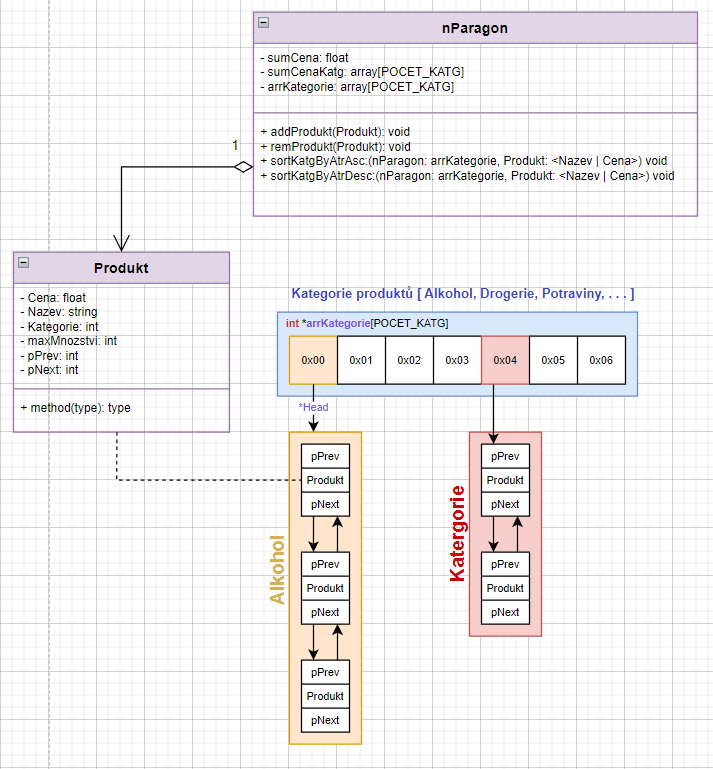
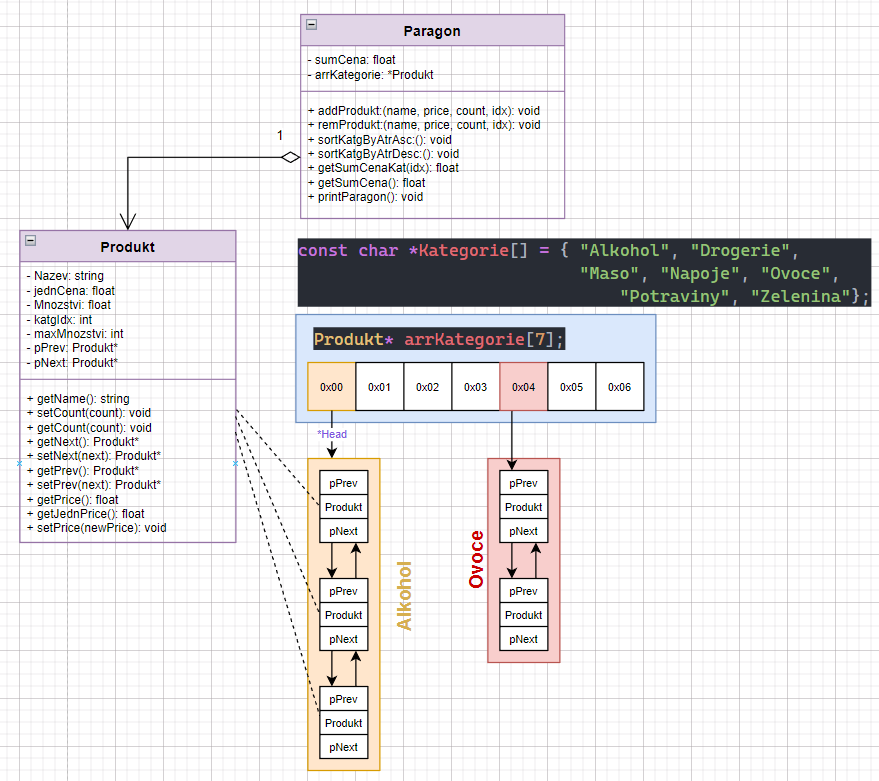
Popis reseni Paragonu

diff --git a/NakupniParagon/Reseni.md b/NakupniParagon/Reseni.md
@@ -9,7 +9,7 @@
 - Jiří Karmasin, karmasin@student.vspj.cz
 - Michal Makovec, makovec@student.vspj.cz
 
-### Formulace zadání
+## Formulace zadání
 Cílem zadání je sestavení konzolové aplikace pro práci s nákupním lístkem tzv. paragonem. Hlavní funkcionalita má být uspořádávání položek podle kategorie, Dále pak vkládání a odebírání položek a kontrola nákupu povoleného množství. 
 
 V našem případě se bude jednat o nákupní paragon supermarketu s potravinami. U každé položky nákupního lístku je předem známa její kategorie a počet kategorií je taktéž předem známy a neměnný.
@@ -25,26 +25,137 @@ Kategorie:
 > Celkem 7 kategorií produktů
 
 
-### Návrh zvoleného řešení 
+## Návrh zvoleného řešení 
 Hlavní uspořádání v nákupním paragonu bude tedy po kategoriích. Vzhledem k tomu, že kategorie budou neměnné, volíme za tímto účelem datovou strukturu pole ukazatelů o velikosti sedmi prvků. Každá položka pole bude ukazatelem na datovou strukturu obousměrný spojový seznam, který bude sloužit jako datová struktura pro uchování nákupních položek v jednotlivých kategoriích.
 
-#### Schéma řešení
+### Schéma řešení
 ![schemaReseni](../imgs/model.png)
 
-Třída `nParagon` obsahuje pole sedmi ukazatelů v předem stanoveném stanoveném pořadí definovaném obchodním domem takto:
-> __Index:Kategorie__=[0:Alkohol, 1:Drogerie, 2:Maso, 3:Nápoje, 4:Ovoce, 5:Potraviny, 6:Zelenina]
-> 
-Každý jednotlivý ukazatelem je `*head` ukazatelem spojového seznamu pro jednotlivé kategorie. Třída si eviduje celkovou sumu ceny všech přidaných položek na nákupní paragon a dále pak sumu ceny v jednotlivých kategoriích. Třída má metody pro přidání a odebrání produktu. Dále pak metody pro řazení sestupně a vzestupně dle ceny nebo názvu v jednotlivých kategoriích.
+- - -
 
-Třída `Produkt` je každá jednotlivá položka, jež může být přidána na nákupní paragon prostřednictvím metody `addProdukt` nebo odebrána `remProdukt`. Položka je `Produkt` je vždy přidána na konec spojového seznamu v příslušné kategorii
+### Třída `Paragon`
+Obsahuje pole sedmi ukazatelů v předem stanoveném stanoveném pořadí definovaném obchodním domem. Každý jednotlivý index pole `Produkt* arrKategorie[7];` je ukazatelem na začátek budoucího spojového seznamu pro jednotlivé kategorie produktů.
+```cpp
+// Pole ukazatelů
+Produkt* arrKategorie[7]; 
+// Pole názvů dle indexu pole ukazatelů
+const char *Kategorie[] = { "Alkohol", "Drogerie", "Maso", "Napoje", "Ovoce", "Potraviny", "Zelenina"};
 
-### Logická interpretace
-### Fyzická interpretace
+// - - - - - - - - - - - - 
+
+class Paragon
+{
+private:
+    float sumCena;
+    Produkt* arrKategorie[7];
+public:
+    Paragon() { // konstruktor
+        for (int i = 0; i < 7; i++) {
+            arrKategorie[i] = nullptr;
+        }
+        sumCena = 0.0;
+    } 
+    friend class Produkt;
+    ~Paragon() {
+        ;
+    }
+}
+```
+
+### Metody třídy `Paragon`
++ addProdukt()
+    - přidá produkt do příslušné kategorie
++ remProdukt()
+    - odebere produkt z příslušné kategorie
++ sortKatgByAtrAsc()
+    - seřadí produkty podle celkové ceny uvnitř každé kategorie sestupně
++ sortKatgByAtrDesc()
+    - seřadí produkty podle celkové uvnitř každé kategorie vzestupně
++ getSumCenaKat()
+    - suma ceny za produkty v jednotlivé kategorii (projde spojový seznam)
++ getSumCena()
+    - suma ceny za jednotlivé kategorie 1 až 7 (resp. indexy pole 0 až 6)
++ printParagon()
+    - vytiskne do konzole položky na paragonu dle kategorií
+
+
+## Třída `Produkt`
+Produkt je každá jednotlivá položka zakoupeného zboží, jež může být přidána do příslušné kategorie nákupního paragonu.
+```cpp
+class Produkt
+{
+private:
+    std::string Nazev;
+    float jendCena;
+    float Mnozstvi;
+    int katgIdx; // 0-6 index pole
+    Produkt* pNext;
+    Produkt* pPrev;
+public:
+    Produkt(std::string name, float price, float count, int idx) {
+        Nazev = name;
+        Mnozstvi = count;
+        katgIdx = idx;
+        jendCena = price;
+        pNext = nullptr;
+        pPrev = nullptr;
+    }
+    ~Produkt() { };
+    // . . .
+}
+```
+ 
+### Metody třídy `Produkt`
++ getName()
+    - zjistí název produktu
++ setCount()
+    - nastaví množství zakoupeného produktu
++ getCount()
+    - zjistí množství produktu
++ getNext()
+    - vrací ukazatel na další položku spojového seznamu
++ setNext()
+    - nastavuje ukazatel na další položku spojového seznamu
++ getPrev()
+    - vrací ukazatel na předchozí položku spojového seznamu
++ setPrev()
+    - nastavuje ukazatel na předchozí položku spojového seznamu
++ getPrice()
+    - zjistí celkovou cenu položky spojového seznamu (jednotkováCena * množství)
++ getJednPrice()
+    - zjistí jednotkovou cenu položky spojového seznamu
++ setPrice()
+    - nastaví jednotkovou cenu položky spojového seznamu
+
+## Logická interpretace
+Pro každý jednotlivý nákup je vytvořena instance nákupního paragonu, který je nejprve prázdý. Nákupem, neboli postupným přidáváním položek (produktů) se začne plnit. U každého produktu je vždy znám jeho název, kategorie, jednotková cena a zakoupené množství.  
+
+Každý zakoupený produkt se zařadí do příslušné kategorie na konec spojového seznamu. V případě, že přidáme produk, který na nákupním paragonu jiý existuje, přičte se množství k stávajícímu uzlu (tím se upraví i jeho cena). V případě, že chceme produk odebrat, odebíráme jeho množství a pokud toto klesne na 0, odstraní se příslušný produkt ze spojového seznamu.  
+
+Na konci nákupu vyjede účtenka seřazená dle 7-mi kategorii a v každé gategorie je seznam zakoupených položek se všemi dostupnými údaji. Položky v kategoriích jsou seřazeny vzestupně nebo setupně dle ceny.
+
+
+## Fyzická interpretace
+Základní rozdělení do jednotlivých kategorií je implementováno pomocí pole`Produkt* arrKategorie[7];`, které obsahuje ukazatele na budoucí spojové seznamy produktů v kategorii.
+
+#### Přídání produktu do kategorie
+se uskuteňuje metodou:
+```cpp
+void addProdukt(std::string name, float price, float count, int idx) {...}
+```
+- `name` je název produktu např. "Rohlík"
+- `price` je jednotková cena produktu např. "3.60"
+- `count` je počet produktů např. "10", které chceme přidat
+    - v případě produktů počítaných na kusy se jedná o celé číslo = počet kusů
+    - v případě produktů počítaných na hmotnost se jedná o destiné číslo = hmotnost v dkg
+-
+
 ### Odůvodnění volby datové struktury a navrhovaných algoritmů
-Pro celkové řešení byla zvolena kombinace dvou datových struktur. V případě kategorií bylo zvoleno pole s předem definovanou velikostí. Víme, že kategorie produktů se neboudou často měnit a tím docílíme konstantního přístupu ke kategoriím.  
+Pro celkové řešení byla zvolena kombinace dvou datových struktur. V případě kategorií bylo zvoleno pole s předem definovanou velikostí. Víme, že kategorie produktů se neboudou často měnit a tím docílíme z hlediska časové složitosti ke konstantního přístupu ke kategoriím 1 - 7.  
 
 Pro jednotlivé produkty jsme zvolili obousměrný spojový seznam. Ten se jeví jako nejefektivnější struktura pro ukládání produktů. V našem případě totiž nevíme kolik produktů a jaké kategorie bude jednotlivý nákupní paragon obsahovat.  
 
 Spojový seznam nám tedy umožní přidávat do každé kategorie libovolné množství produktů, aniž bychom museli předem definovat jeho velikost. Vkládání produktu bude vždy na konec seznamu. Volíme obousměrný spojový seznam, protože předpokládáme časté odebírání produktů a teké implementaci řadících algorytmů. Obousměrný spojový seznam je praktičtějčí pro výše uvedené operace. Obousměrný seznam sice zabere více paměti ale v připadě nákupního paragonu, kde se většinou jedná o desítky položek, je to zanedbatelné.
 ### Vyjádření složitosti
+
 ### Diskuze nad složitostí, výhodami a nevýhodami zvolených postupů
